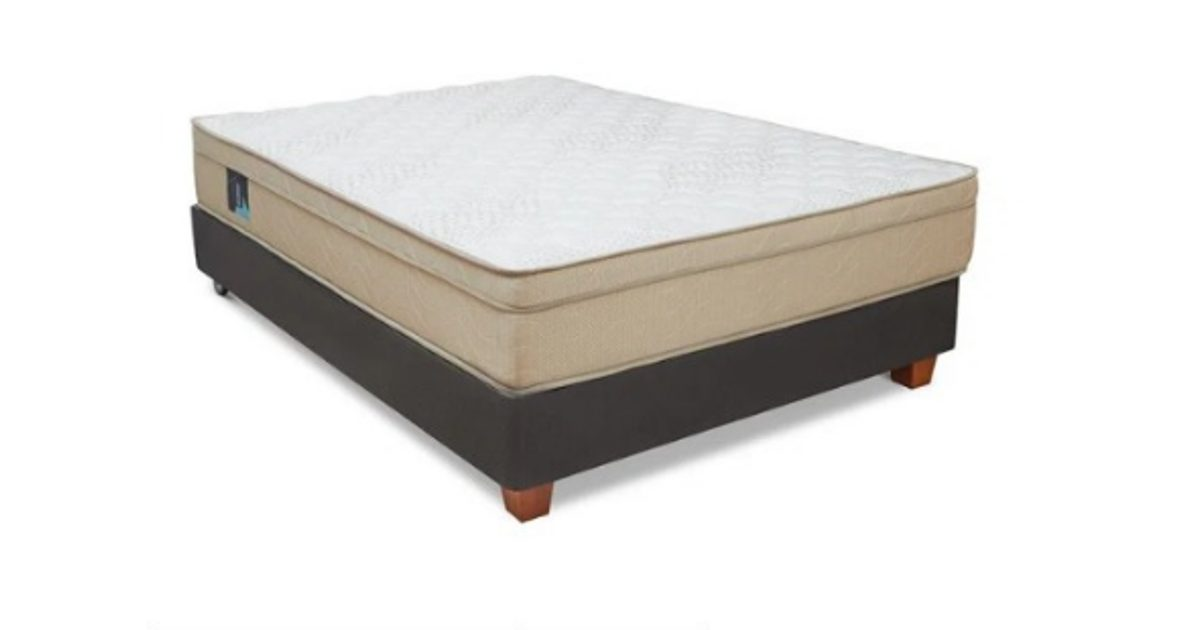
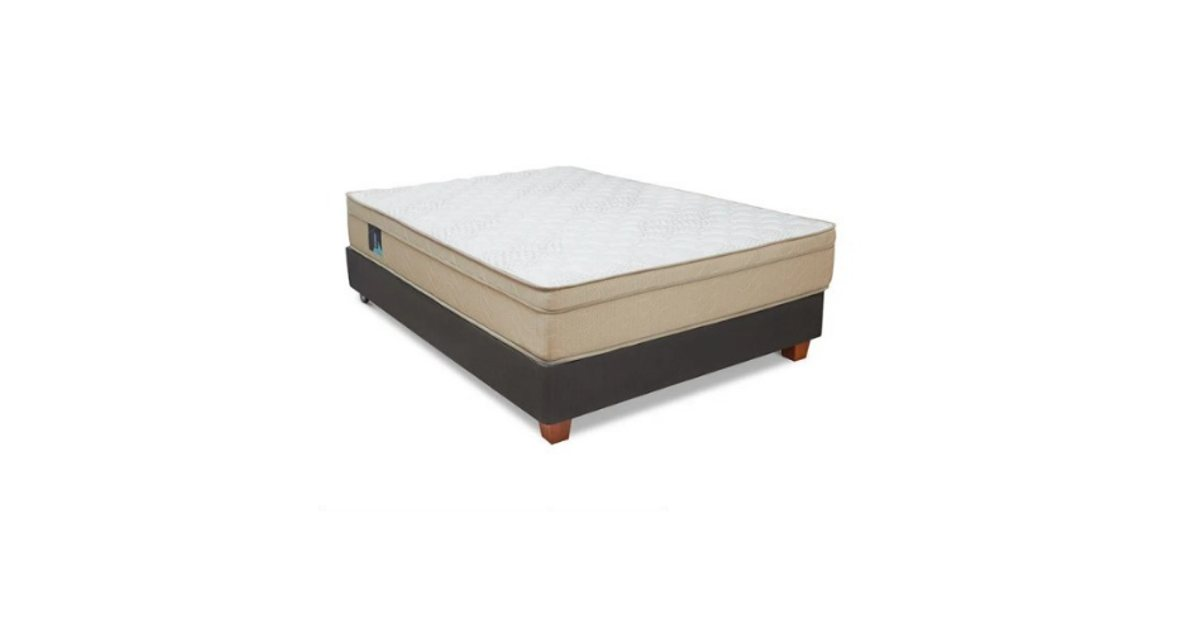
La ventana ampliada ya no muestra "Color" en productos sin colores
En un colchon salia el titulo "Color" y el aviso del tono de la tela con
la fila de circulos vacia debajo. La ficha normal ya lo ocultaba; la
ventana ampliada no.

Ademas, las fotos de Orion, Sideral y Beta quedan centradas en cuadrado.
Se intento quitarles la box tarima automaticamente y NO se pudo: el
costado del colchon esta en sombra y se une con la base, asi que al
quitarla se comia parte del colchon. Se dejan enteras; la ficha ya avisa
que la base no esta incluida. La solucion buena es el pack de fotos
oficial del fabricante, que para el Pocket Snow dio justo lo que se
queria: el colchon solo y centrado.

Changed region(s): [[0.1542, 0.1206, 0.8325, 0.8444]]

diff --git a/src/components/ProductZoomModal.jsx b/src/components/ProductZoomModal.jsx
@@ -89,15 +89,20 @@ export default function ProductZoomModal({
               {dosTelas && <Cuadro color={selectedColor2} label="Color del detalle" />}
             </div>
 
-            <div className="mt-6">
-              <ColorPicker
-                colors={availableColors}
-                selectedId={colorId}
-                onSelect={onSelectColor}
-                titulo={dosTelas ? 'Color principal' : 'Color'}
-                aviso={dosTelas ? undefined : aviso}
-              />
-            </div>
+            {/* Sin colores no se dibuja NADA de esto. En un colchón (que se
+                vende tal cual) salía el título "Color" y el aviso del tono,
+                con la fila de círculos vacía debajo. */}
+            {availableColors?.length > 0 && (
+              <div className="mt-6">
+                <ColorPicker
+                  colors={availableColors}
+                  selectedId={colorId}
+                  onSelect={onSelectColor}
+                  titulo={dosTelas ? 'Color principal' : 'Color'}
+                  aviso={dosTelas ? undefined : aviso}
+                />
+              </div>
+            )}
 
             {dosTelas && (
               <div className="mt-5">
